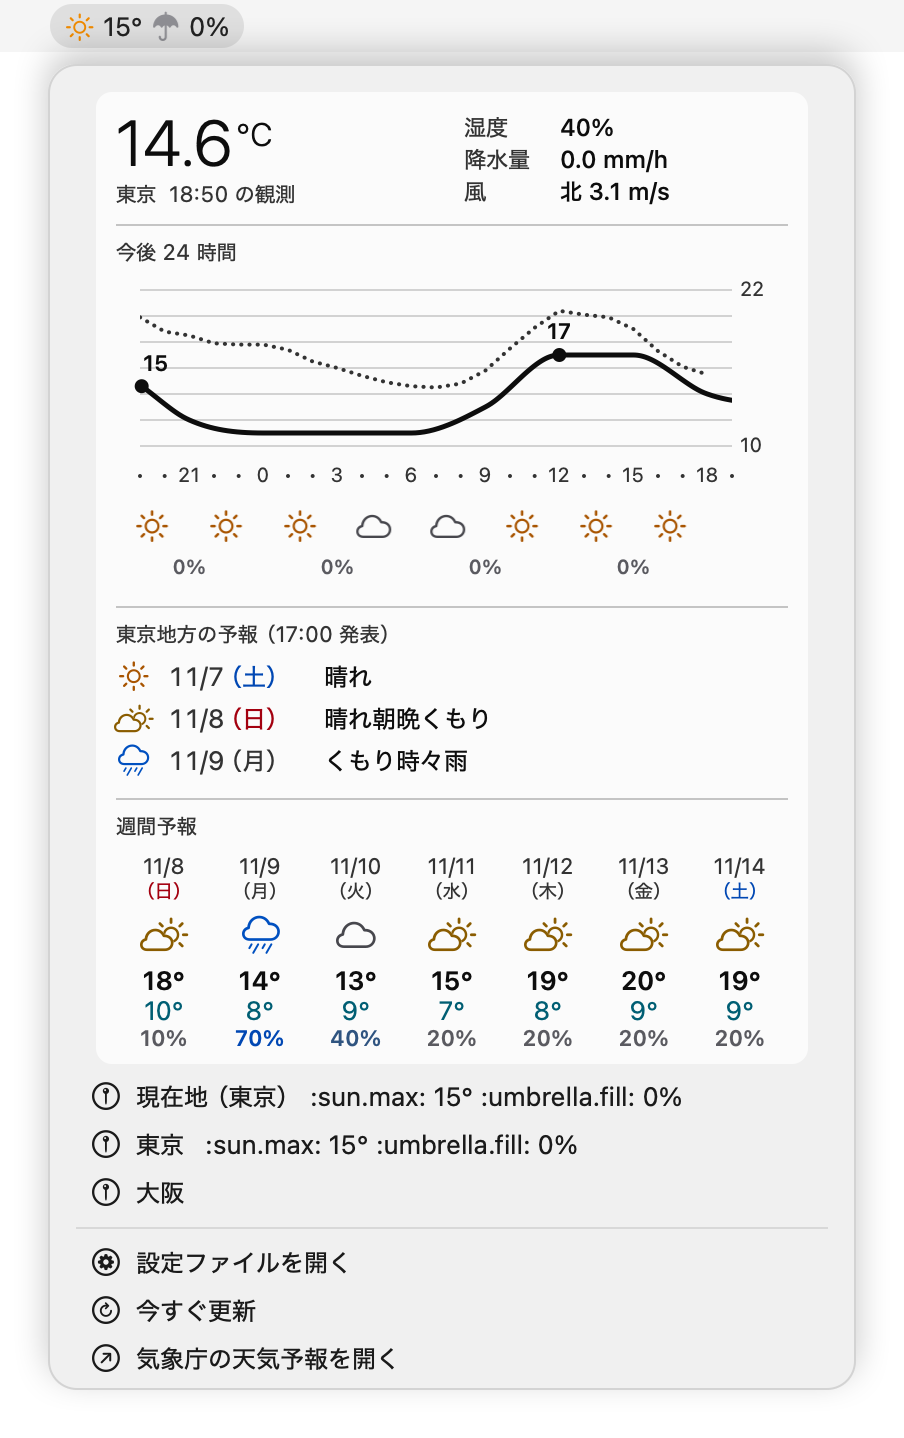
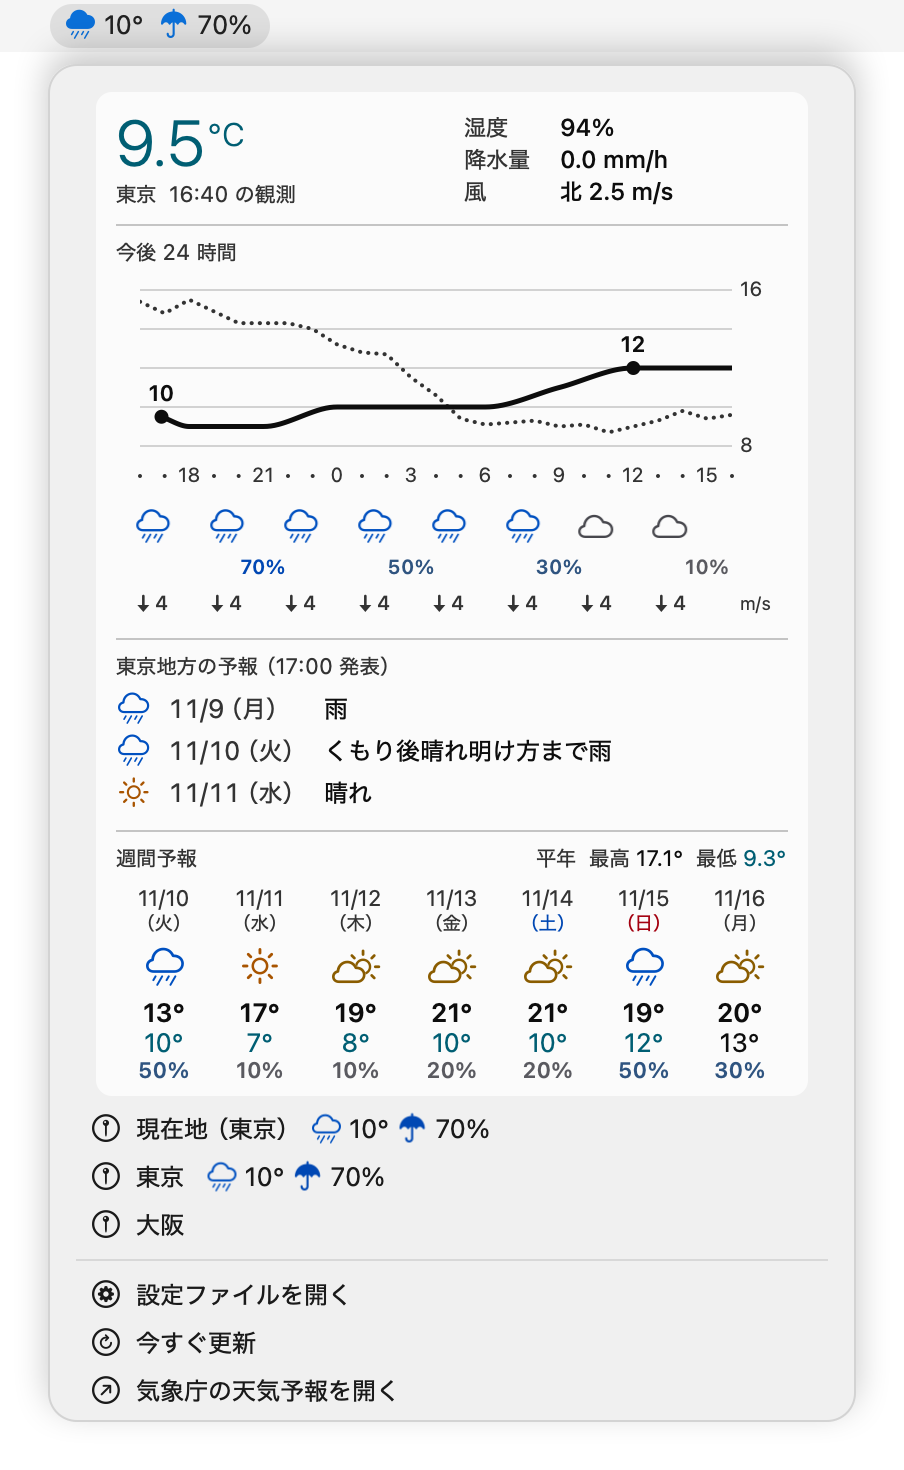
samples: weather のメニューバーを画像で組み、README の画像を描き直す (#24)
v1.1.11 (#22) で weather のメニューバーの行を「image=明るい用,暗い用」の 2 枚の
画像にしたが、samples/render.sh は行を文字として compose に渡していたので、README の
画像のメニューバーが空になっていた。行から外観に合う方の画像を取り出して渡す。

地点の切り替えの項目に添える天気も、:sun.max: のような書き方がそのまま文字で出て
いた。compose が項目の文字の :symbol: をアイコンにし、sfcolor の色で描くようにした。

README の画像を描き直した。weather は v1.1.12 の風と平年値が、sysmon のダークは
v1.1.10 (#21) の緑が入る。

diff --git a/samples/compose.swift b/samples/compose.swift
@@ -1,8 +1,9 @@
 // README 用に、メニューバーの項目とカードを、メニューを開いたときの見た目に組む。
 //   swift samples/compose.swift <light|dark> <メニューバー> <カードの PNG> <出力の PNG> [項目 ...]
-// メニューバーは PNG のパスか、「text:」に続けて SwiftBar の行 (weather のように
-// :symbol: を埋め込んだ文字と sfcolor=明るい用,暗い用) を渡す。
-// 項目は「SF Symbols の名前:文字」の形で、カードの下に並べる。末尾に「:checked」を
+// メニューバーは PNG のパスか、「text:」に続けて SwiftBar の行 (:symbol: を埋め込んだ
+// 文字と sfcolor=明るい用,暗い用) を渡す。
+// 項目は「SF Symbols の名前:文字」の形で、カードの下に並べる。文字は SwiftBar の行の
+// ままでもよい (weather の地点の項目のように :symbol: と sfcolor を含むもの)。末尾に「:checked」を
 // 付けるとチェックマークを付ける。「-」だけの項目は区切り線にする。
 // 実物の見た目を写し取るものではなく、カードがどう使われるかを伝えるための絵。
 import AppKit
@@ -31,7 +32,7 @@ func hex(_ s: String) -> NSColor {
     return NSColor(red: CGFloat((v >> 16) & 0xff) / 255, green: CGFloat((v >> 8) & 0xff) / 255,
                    blue: CGFloat(v & 0xff) / 255, alpha: 1)
 }
-func barText(_ line: String) -> NSAttributedString {
+func barText(_ line: String, font: NSFont = .systemFont(ofSize: 13), foreground: NSColor? = nil) -> NSAttributedString {
     let parts = line.components(separatedBy: " | ")
     var colors: [Int: NSColor] = [:]
     for kv in (parts.count > 1 ? parts[1] : "").split(separator: " ") {
@@ -41,8 +42,7 @@ func barText(_ line: String) -> NSAttributedString {
         let pair = f[1].split(separator: ",").map(String.init)
         colors[n] = hex(dark && pair.count > 1 ? pair[1] : pair[0])
     }
-    let font = NSFont.systemFont(ofSize: 13)
-    let barFG = dark ? NSColor(white: 1, alpha: 0.92) : NSColor(white: 0, alpha: 0.85)
+    let barFG = foreground ?? (dark ? NSColor(white: 1, alpha: 0.92) : NSColor(white: 0, alpha: 0.85))
     let out = NSMutableAttributedString()
     var n = 0
     for (i, piece) in parts[0].components(separatedBy: ":").enumerated() {
@@ -163,7 +163,7 @@ if !items.isEmpty {
             img.draw(in: CGRect(x: popX + popPad + 8 - s.width / 2 + 7, y: y + (rowH - s.height) / 2, width: s.width, height: s.height),
                      from: .zero, operation: .sourceOver, fraction: 1, respectFlipped: true, hints: nil)
         }
-        let str = NSAttributedString(string: label, attributes: [.font: NSFont.systemFont(ofSize: 13), .foregroundColor: fg])
+        let str = barText(label, foreground: fg)
         str.draw(at: CGPoint(x: popX + popPad + 30, y: y + (rowH - str.size().height) / 2))
         y += rowH
     }
